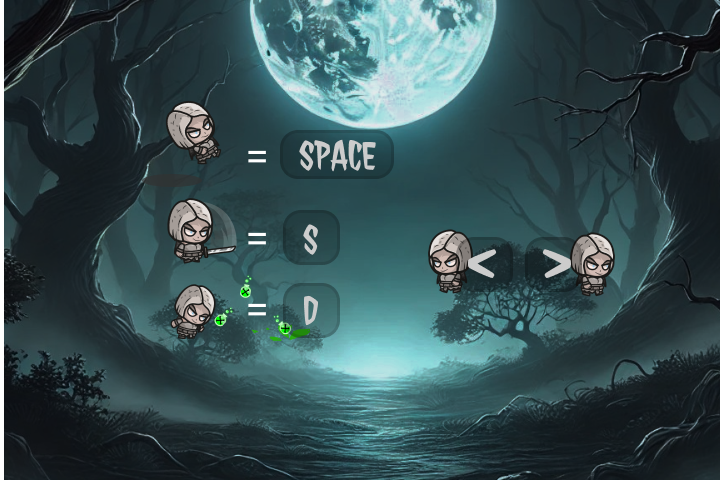
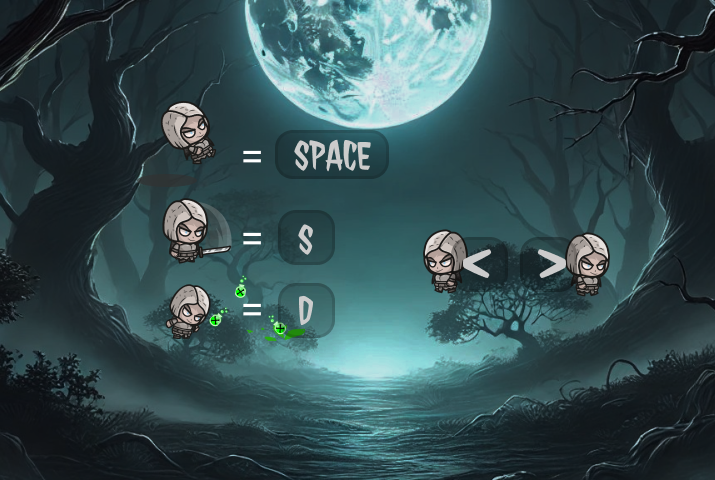
add Startscreen function and descriptonScreen

diff --git a/js/game.js b/js/game.js
@@ -3,19 +3,26 @@ let world;
 let keyboard = new Keyboard();
 
 function startGame(){
-    startScreen =document.getElementById("startScreen");
-    startScreen = "";
-    canvas =document.getElementById("canvas");
-    canvas.classList.remove("d-none");
+     startScreen =document.getElementById("startScreen");
+     startScreen = "";
+     canvas =document.getElementById("canvas");
+     canvas.classList.remove("d-none");
 
-    world = new World(canvas, keyboard);
+     world = new World(canvas, keyboard);
+}
+
+function startDescription(){
+    descriptionScreen = document.getElementById("startContent");
+    descriptionScreen.classList.add("d-none");
+    startScreen = document.getElementById("startScreen");
+    startScreen.innerHTML = descriptionTemplate();
 }
 
 function init(){
     canvas = document.getElementById('canvas');
-    startScreen = document.getElementById("startScreen");
-    startScreen.innerHTML = startTemplate();
-   
+     startScreen = document.getElementById("startScreen");
+     startScreen.innerHTML = startTemplate();
+    // world = new World(canvas, keyboard);
 }
 
 window.addEventListener("keydown", (e) => {

diff --git a/templates/templates.js b/templates/templates.js
@@ -1,5 +1,27 @@
 function startTemplate(){
  return `
- <img src="./img/Startscreen/Startscreen.png" alt="StartGame">
+  <div id="startBox" width="720px" height="480px"> 
+       <div id="startContent">
+            <img src="./img/Startscreen/Startscreen.png" alt="StartGame">
+        <div class="startBtn_container">
+            <button class="startbtn" onclick="startDescription()">START GAME</button>
+            <button class="startbtn" id="img-button" onclick="options()">OPTIONS</button>
+        </div>
+        </div>
+    </div>
+
  `
+}
+
+function descriptionTemplate(){
+    return `
+    <div id="descriptionBox" width="720px" height="480px"> 
+              <img src="./img/Startscreen/description.png" alt="description">
+          <div class="descriptionBtn_container">
+              <button class="startbtn" onclick="init()">Back</button>
+              <button class="startbtn" id="img-button" onclick="options()">READY</button>
+          </div>
+          </div>
+  
+   `
 }

diff --git a/style.css b/style.css
@@ -48,6 +48,7 @@ button{
     border-radius: 20%;
     cursor: pointer;
 }
+
 button img{
     width: 30px;
     filter: brightness(1); /* Standard-Helligkeit */
@@ -56,6 +57,33 @@ button img{
 button img:hover{
     filter: brightness(0) sepia(4) hue-rotate(30deg) saturate(15);
 }
+
+.startBtn_container{
+width: 480px;
+display: flex;
+justify-content: space-around;
+position: fixed;
+top:640px;
+right: 550px;
+}
+
+button.startbtn{
+    background-color: rgb(35, 35, 39);
+    border-radius: 20%;
+    cursor: pointer;
+    padding: 10px;
+    color: #FFF;
+}
+button.startbtn:hover{
+    filter: brightness(2) sepia(4) hue-rotate(30deg) saturate(15);
+}
+
+.descriptionBtn_container{
+    position: fixed;
+    top:640px;
+    right: 550px;
+}
+
 
 /* Smartphone------- */
 

diff --git a/index.html b/index.html
@@ -36,9 +36,9 @@
       <button id="fullscreen"><img src="./img/icon/fullscreen.png" alt="Screen"></button>
    </div>
    </section>
+   
    <div id="startScreen"></div>
-   <canvas id="canvas" class="d-none" width="720" height="480">
-   </canvas>
+   <canvas id="canvas" width="720" height="480" class="d-none"></canvas>
 
    <section class="panel2">
       <div class="panel-wrapperL d-none">
